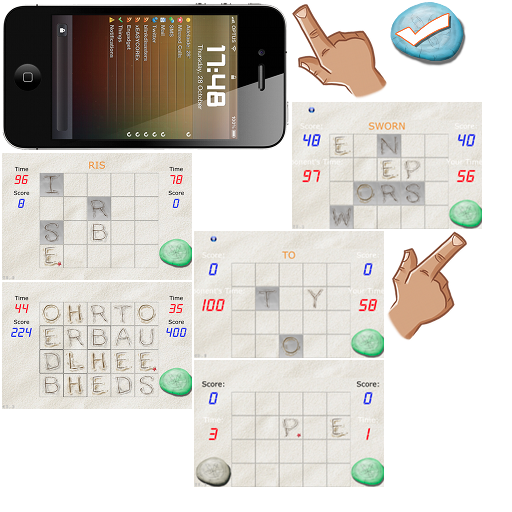
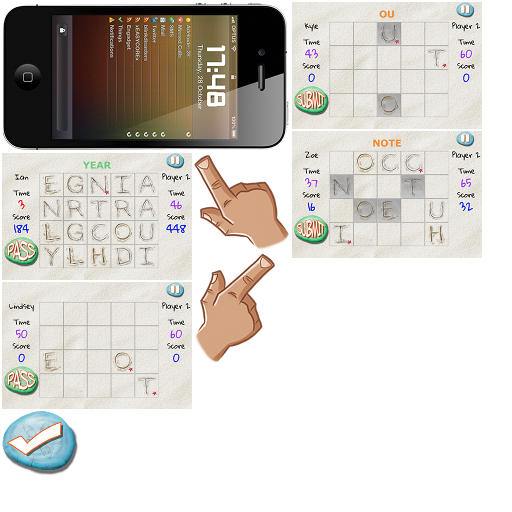
used updated screens for "How to Play"

diff --git a/Classes/HowToPlay.mm b/Classes/HowToPlay.mm
@@ -146,25 +146,25 @@
         /******* Scoring *************/
         howToPlay7Label = [CCLabelTTF labelWithString:@"3 letter words:   8 pts" fontName:@"MarkerFelt-Thin" fontSize:20];
 		howToPlay7Label.color = ccc3(255, 255, 255);
-		howToPlay7Label.position = ccp(15, 65);
+		howToPlay7Label.position = ccp(205, 65);
         howToPlay7Label.anchorPoint = ccp(0,0);
 		[self addChild:howToPlay7Label];
         
         howToPlay8Label = [CCLabelTTF labelWithString:@"4 letter words: 16 pts" fontName:@"MarkerFelt-Thin" fontSize:20];
 		howToPlay8Label.color = ccc3(255, 255, 255);
-		howToPlay8Label.position = ccp(15, 45);
+		howToPlay8Label.position = ccp(205, 45);
         howToPlay8Label.anchorPoint = ccp(0,0);
 		[self addChild:howToPlay8Label];
         
         howToPlay9Label = [CCLabelTTF labelWithString:@"5 letter words: 32 pts" fontName:@"MarkerFelt-Thin" fontSize:20];
 		howToPlay9Label.color = ccc3(255, 255, 255);
-		howToPlay9Label.position = ccp(15, 25);
+		howToPlay9Label.position = ccp(205, 25);
         howToPlay9Label.anchorPoint = ccp(0,0);
 		[self addChild:howToPlay9Label];
         
         howToPlay10Label = [CCLabelTTF labelWithString:@"and so on ..." fontName:@"MarkerFelt-Thin" fontSize:20];
 		howToPlay10Label.color = ccc3(255, 255, 255);
-		howToPlay10Label.position = ccp(102, 5);
+		howToPlay10Label.position = ccp(292, 5);
         howToPlay10Label.anchorPoint = ccp(0,0);
 		[self addChild:howToPlay10Label];
         
@@ -211,7 +211,7 @@
 {
     gameScreenShotFlip.visible=YES;
     finger.visible=YES;
-    finger.position = ccp(195, 80);    
+    finger.position = ccp(195, 80+15);    
     iPhoneScreenShot.position = ccp(240,157);
     howToPlay13Label.visible = YES;
       
@@ -231,7 +231,7 @@
 {
     gameScreenShotSelect.visible=YES;
     finger2.visible=YES;
-    finger2.position = ccp(317, 118);
+    finger2.position = ccp(317+20, 118+5);
     //howToPlay3Label.visible=YES;
     
     iPhoneScreenShot.position = ccp(240,157);
@@ -257,9 +257,9 @@
 {
     finger.visible=YES;
     gameScreenShotSubmit.visible=YES;
-    finger.position = ccp(290, 80);
+    finger.position = ccp(140, 88);
     
-    iPhoneScreenShot.position = ccp(240,175);
+    iPhoneScreenShot.position = ccp(240,175-3);
     
     
     [howToPlayLiteral setString:@"Submit Words To Score and End Turn"];

diff --git a/Classes/SinglePlayer.mm b/Classes/SinglePlayer.mm
@@ -387,6 +387,13 @@
 	CGPoint touchLocation = [self convertTouchToNodeSpace:touch];
     //MCH - DISPLAY THE PAUSE MENU
     if(CGRectContainsPoint(pauseMenu.pauseButton.boundingBox, touchLocation) && !pauseState && pauseMenu.pauseButton.visible){
+        
+        //STOP PLAYING FINAL COUNTDOWN IF GAME IS PAUSED
+        if (finalCountDownAlreadyPlaying) {
+            finalCountDownAlreadyPlaying=NO;
+            [ [[GameManager sharedGameManager] soundEngine] stopEffect:soundId];
+        }
+
         pauseState = TRUE;
         [pauseMenu showPauseMenu:self];
         [self hideAIActivity];
@@ -1079,6 +1086,11 @@
 	// in this particular example nothing needs to be released.
 	// cocos2d will automatically release all the children (Label)
 	
+    //IF THE PLAYER EXITS THE GAME (e.g. rematch) STOP BY PLAYING 
+    //THE FINAL COUNTDOWN TICKING SOUND IF IT'S CURRENTLY BEING PLAYED
+    if (finalCountDownAlreadyPlaying) {
+        [ [[GameManager sharedGameManager] soundEngine] stopEffect:soundId];
+    }
 	// don't forget to call "super dealloc"
     [pauseMenu release];
     [visibleLetters release];

diff --git a/Classes/WordGame.m b/Classes/WordGame.m
@@ -1378,6 +1378,7 @@
 
 - (void) onEnter {
 	[super onEnter];
+    /*******
     adView = [[ADBannerView alloc] initWithFrame:CGRectZero];
     adView.delegate = self;
     adView.requiredContentSizeIdentifiers = [NSSet setWithObjects:ADBannerContentSizeIdentifierPortrait, ADBannerContentSizeIdentifierLandscape, nil];
@@ -1386,22 +1387,25 @@
     CGSize windowSize = [[CCDirector sharedDirector] winSize];
     adView.center = CGPointMake(adView.frame.size.width/2, windowSize.height - adView.frame.size.height/2);
     adView.hidden = YES;
+     ***********/
 }
 
 - (void) onExit {
+    /*******
 	adView.delegate = nil;
 	[adView removeFromSuperview];
 	[adView release];
 	adView = nil;
+     ********/
 	[super onExit];
 }
 
 - (void) bannerViewDidLoadAd:(ADBannerView *)banner {
-	adView.hidden = NO;
+	//MCHadView.hidden = NO;
 }
 
 - (void) bannerView:(ADBannerView *)banner didFailToReceiveAdWithError:(NSError *)error {
-	adView.hidden = YES;
+	//MCHadView.hidden = YES;
 }
 
 - (void) bannerViewActionDidFinish:(ADBannerView *)banner {

diff --git a/Classes/HundredSecondsAppDelegate.m b/Classes/HundredSecondsAppDelegate.m
@@ -92,6 +92,7 @@
 	
 	[director setAnimationInterval:1.0/60];
 	[director setDisplayFPS:YES];
+    
 	
 	
 	// make the OpenGLView a child of the view controller
@@ -171,7 +172,8 @@
 #endif
 	
 	[director setAnimationInterval:1.0/60];
-	[director setDisplayFPS:YES];
+	//[director setDisplayFPS:YES];
+    [director setDisplayFPS:NO];
 	
 	
 	// make the OpenGLView a child of the view controller
